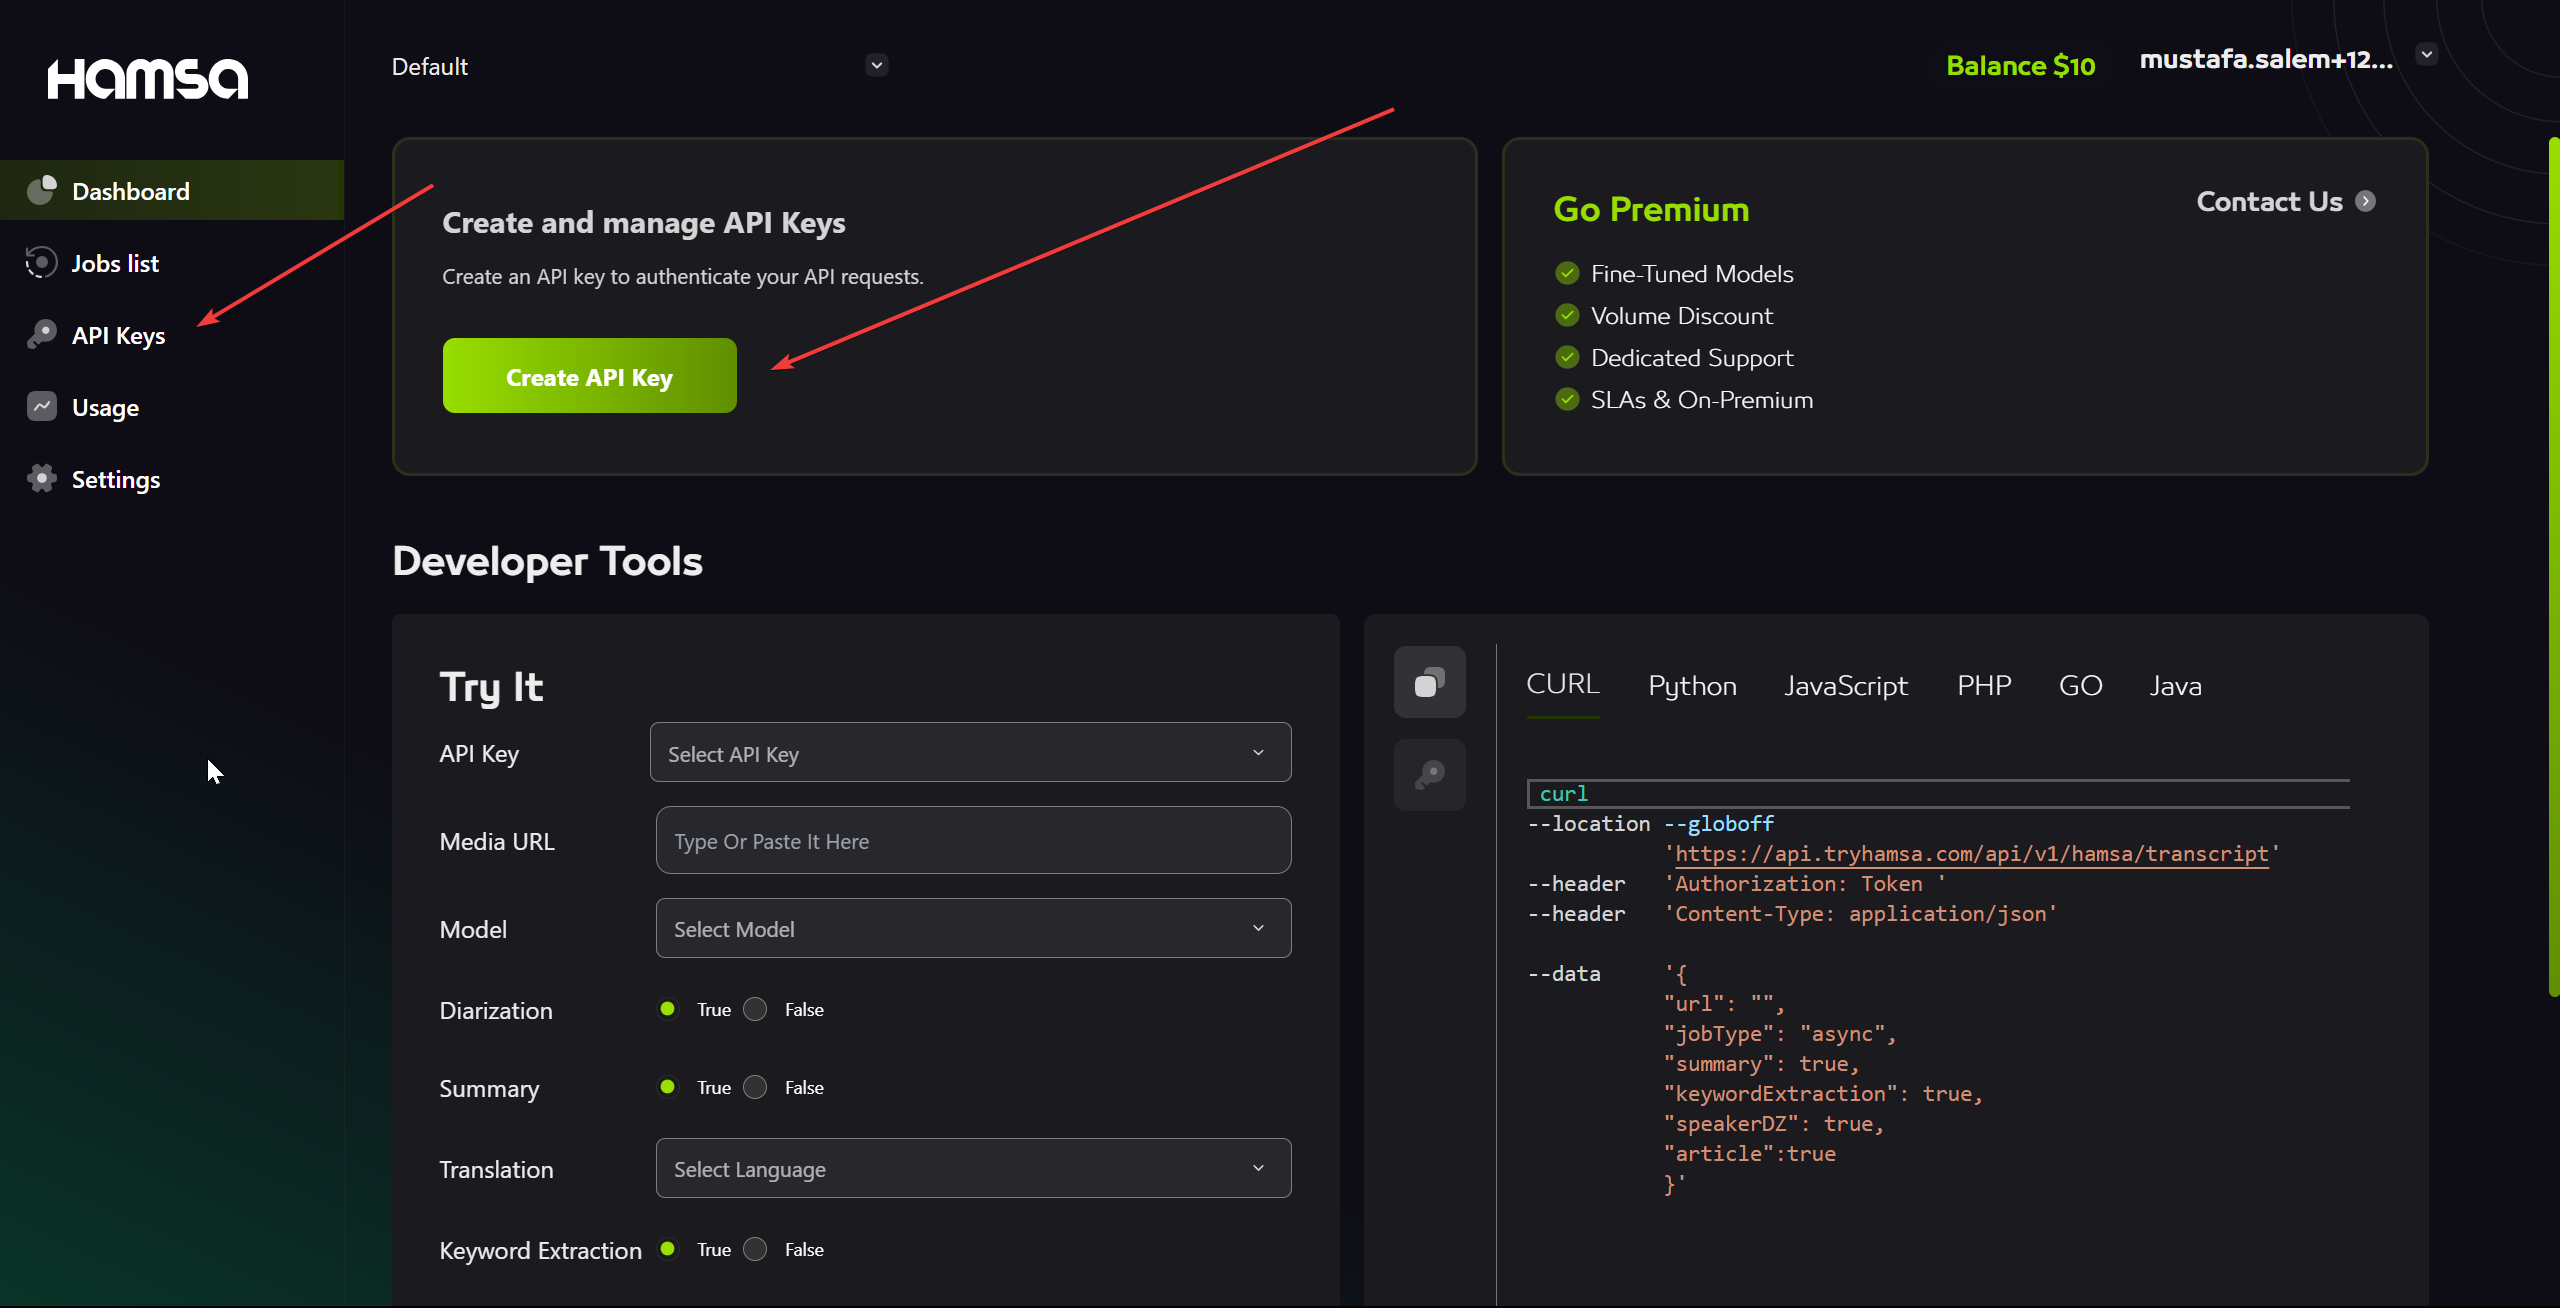
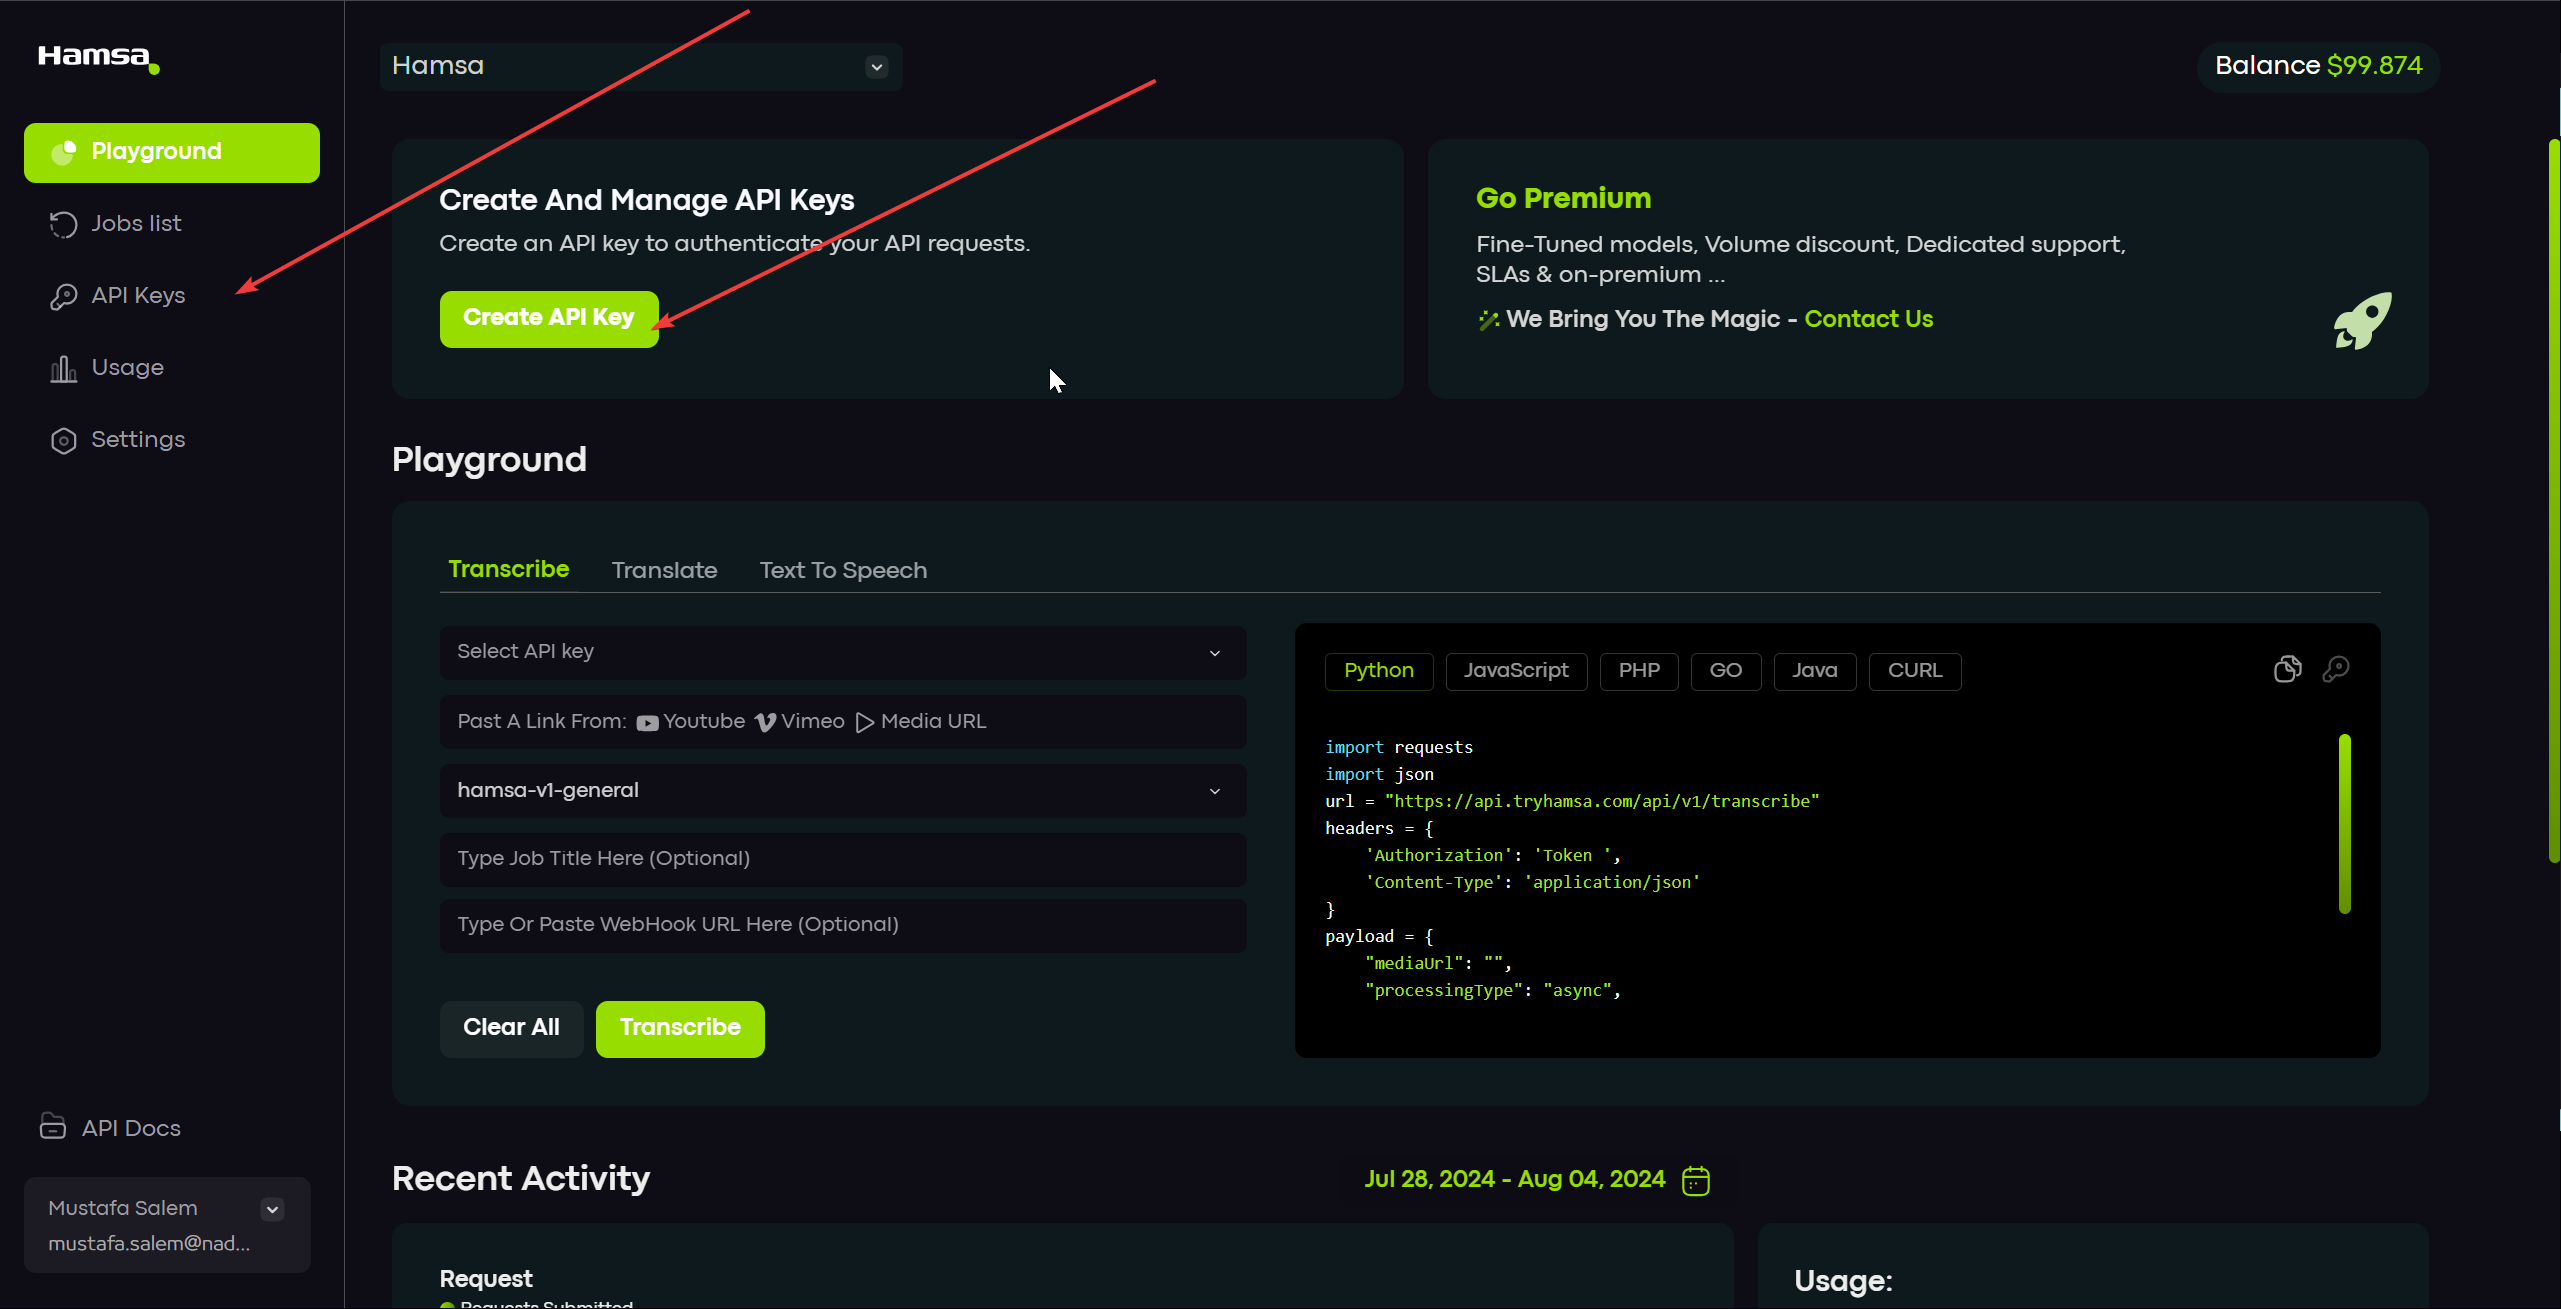
feat: change the UI examples and hide the theme switcher

diff --git a/style.css b/style.css
@@ -1,0 +1,3 @@
+#navbar > div > div > div > div:nth-child(3) > div {
+  display: none !important;
+}
